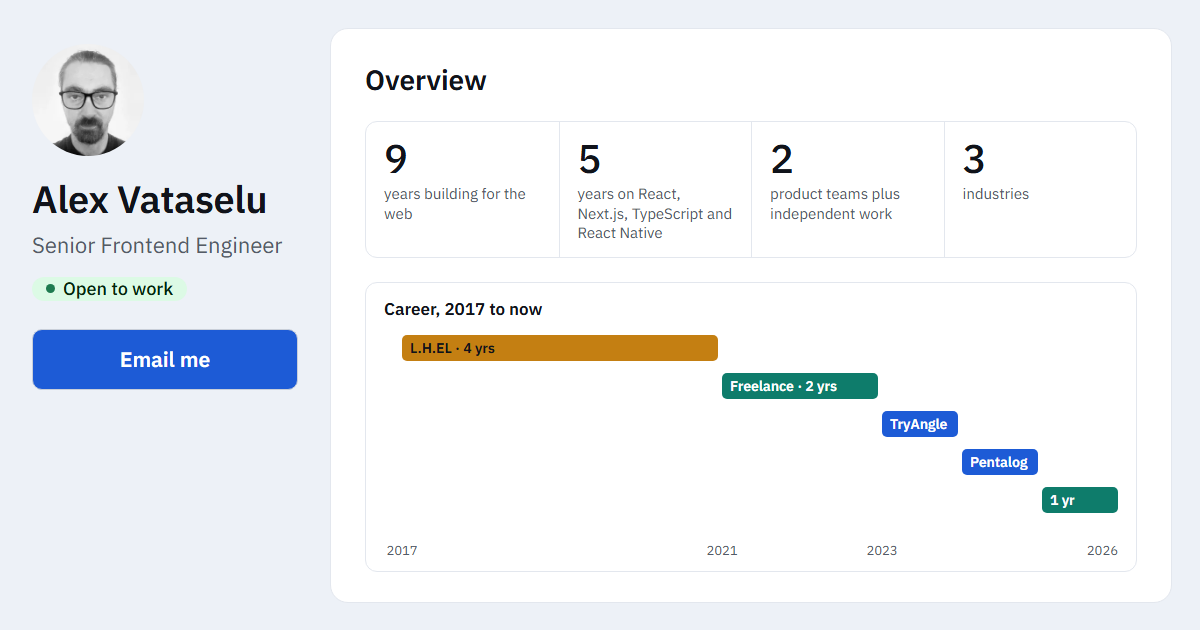
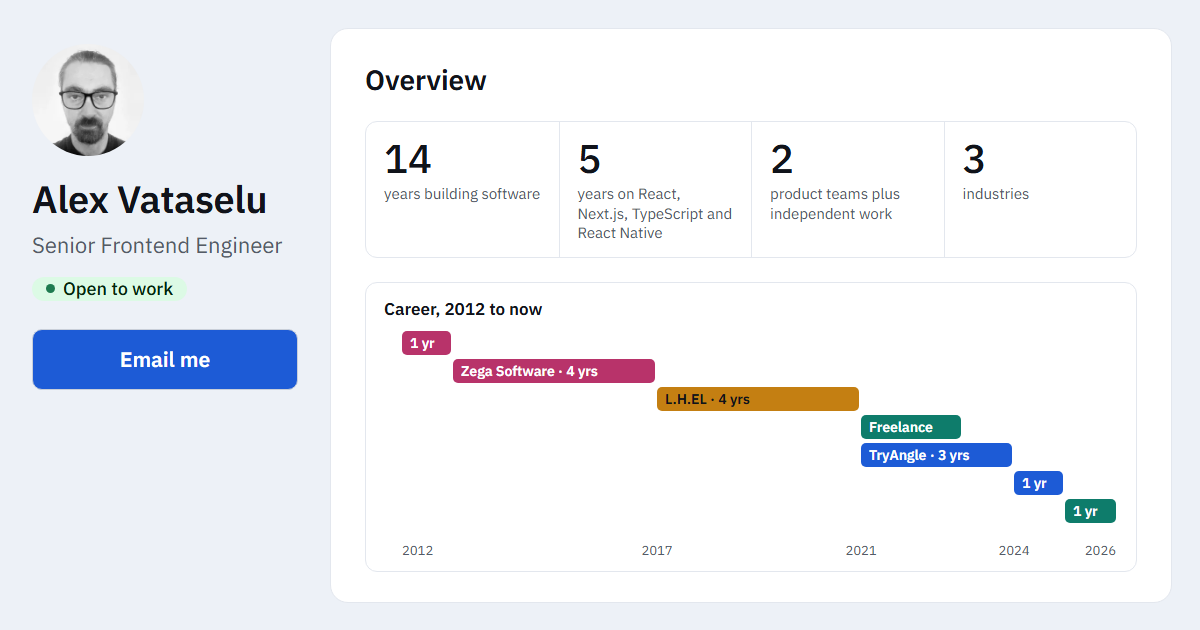
og: 14 years building software, career bars on a 2012 axis with the backend years

diff --git a/scripts/og-image.html b/scripts/og-image.html
@@ -5,8 +5,8 @@
   To regenerate: pnpm build, copy this file into out/ with __CSS__ replaced by the name of the built
   stylesheet that declares IBM Plex Sans, serve out/, and screenshot /og-image.html with a 1200x630
   viewport (Playwright: page.screenshot after document.fonts.ready) into src/app/opengraph-image.png.
-  Then delete the copy from out/. The bars are the CV's dated roles: 2017-2021, 2021-2023, 2023-2024,
-  2024-2025, 2025-now, on a 2017-2026 axis (each year 80px wide).
+  Then delete the copy from out/. The bars are the CV's dated roles: 2012-2013, 2013-2017, 2017-2021,
+  2021-2023, 2021-2024, 2024-2025, 2025-now, on a 2012-2026 axis (each year 51px wide, from 36px).
 -->
 <html lang="en" data-theme="light">
 <head>
@@ -32,8 +32,8 @@
   .l { margin-top: 4px; font-size: 15px; color: #545b68; line-height: 1.3; }
   .tl { position: relative; margin-top: 24px; height: 290px; border: 1px solid #e3e7ee; border-radius: 12px; }
   .tl .head { position: absolute; left: 18px; top: 14px; font-size: 17px; font-weight: 600; }
-  .bar { position: absolute; height: 26px; border-radius: 5px; font-size: 14px; font-weight: 600; padding-left: 8px; line-height: 26px; }
-  .p { background: #1d5bd6; color: #fff; } .i { background: #0e7c6b; color: #fff; } .s { background: #c47f12; color: #10131a; }
+  .bar { position: absolute; box-sizing: border-box; height: 24px; border-radius: 5px; font-size: 14px; font-weight: 600; padding-left: 8px; line-height: 24px; white-space: nowrap; overflow: hidden; }
+  .p { background: #1d5bd6; color: #fff; } .i { background: #0e7c6b; color: #fff; } .s { background: #c47f12; color: #10131a; } .b { background: #b8336a; color: #fff; }
   .yr { position: absolute; bottom: 10px; font-size: 13px; color: #545b68; transform: translateX(-50%); }
 </style>
 </head>
@@ -49,19 +49,21 @@
     <div class="sheet">
       <h1>Overview</h1>
       <div class="kpis">
-        <div class="kpi"><p class="v">9</p><p class="l">years building for the web</p></div>
+        <div class="kpi"><p class="v">14</p><p class="l">years building software</p></div>
         <div class="kpi"><p class="v">5</p><p class="l">years on React, Next.js, TypeScript and React Native</p></div>
         <div class="kpi"><p class="v">2</p><p class="l">product teams plus independent work</p></div>
         <div class="kpi"><p class="v">3</p><p class="l">industries</p></div>
       </div>
       <div class="tl">
-        <p class="head">Career, 2017 to now</p>
-        <span class="bar s" style="left:36px;top:52px;width:316px">L.H.EL · 4 yrs</span>
-        <span class="bar i" style="left:356px;top:90px;width:156px">Freelance · 2 yrs</span>
-        <span class="bar p" style="left:516px;top:128px;width:76px">TryAngle</span>
-        <span class="bar p" style="left:596px;top:166px;width:76px">Pentalog</span>
-        <span class="bar i" style="left:676px;top:204px;width:76px">1 yr</span>
-        <span class="yr" style="left:36px">2017</span><span class="yr" style="left:356px">2021</span><span class="yr" style="left:516px">2023</span><span class="yr" style="left:752px;transform:translateX(-100%)">2026</span>
+        <p class="head">Career, 2012 to now</p>
+        <span class="bar b" style="left:36px;top:48px;width:49px">1 yr</span>
+        <span class="bar b" style="left:87px;top:76px;width:202px">Zega Software · 4 yrs</span>
+        <span class="bar s" style="left:291px;top:104px;width:202px">L.H.EL · 4 yrs</span>
+        <span class="bar i" style="left:495px;top:132px;width:100px">Freelance</span>
+        <span class="bar p" style="left:495px;top:160px;width:151px">TryAngle · 3 yrs</span>
+        <span class="bar p" style="left:648px;top:188px;width:49px">1 yr</span>
+        <span class="bar i" style="left:699px;top:216px;width:51px">1 yr</span>
+        <span class="yr" style="left:36px;transform:none">2012</span><span class="yr" style="left:291px">2017</span><span class="yr" style="left:495px">2021</span><span class="yr" style="left:648px">2024</span><span class="yr" style="left:750px;transform:translateX(-100%)">2026</span>
       </div>
     </div>
   </div>
